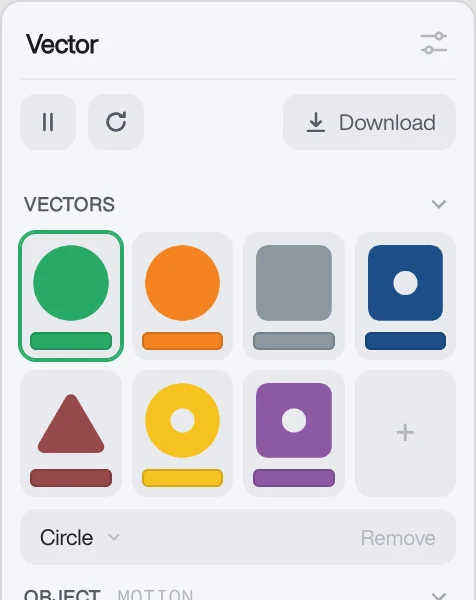
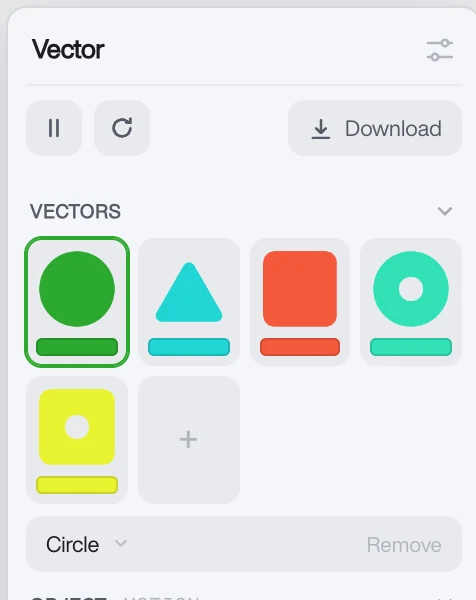
Vector tile shows Idler's five atoms, not the sample set
Re-taken from the live instrument at the same 476x600 crop; the old tile
showed the seven sample vectors Vector no longer opens on.

diff --git a/index.html b/index.html
@@ -1540,7 +1540,7 @@ document.documentElement.className+=' js';
     {s:'osmosis',n:'Petri dish',src:'osmosis/art/petri.mp4',fit:'cover',pad:'0',bg:'#101010'},
     // The Shell and the instrument that plays it sit side by side.
     {s:'idler',n:'The Shell',src:'idler/art/shell.mp4',pad:'0',madeIn:'Vector',madeUrl:'https://artifactory-vector.pages.dev/'},
-    {s:'artifactory',n:'Vector',src:'artifactory/art/vector.webp',bg:'#E8EAED',pad:'6%',url:'https://artifactory-vector.pages.dev/',after:'idler'},
+    {s:'artifactory',n:'Vector',src:'artifactory/art/vector.webp?v=2',bg:'#E8EAED',pad:'6%',url:'https://artifactory-vector.pages.dev/',after:'idler'},
     {s:'biota',n:'Symbiota',src:'biota/art/fish.mp4',fit:'cover',pad:'0',pos:'50% 36%'},
     {s:'the-artifact-index',n:'SCI + FI',src:'the-artifact-index/art/objects.webp'},
     {s:'artifice-brand',n:'Primitives',src:'artifice-brand/plate.mp4',fit:'cover',pad:'0'},
